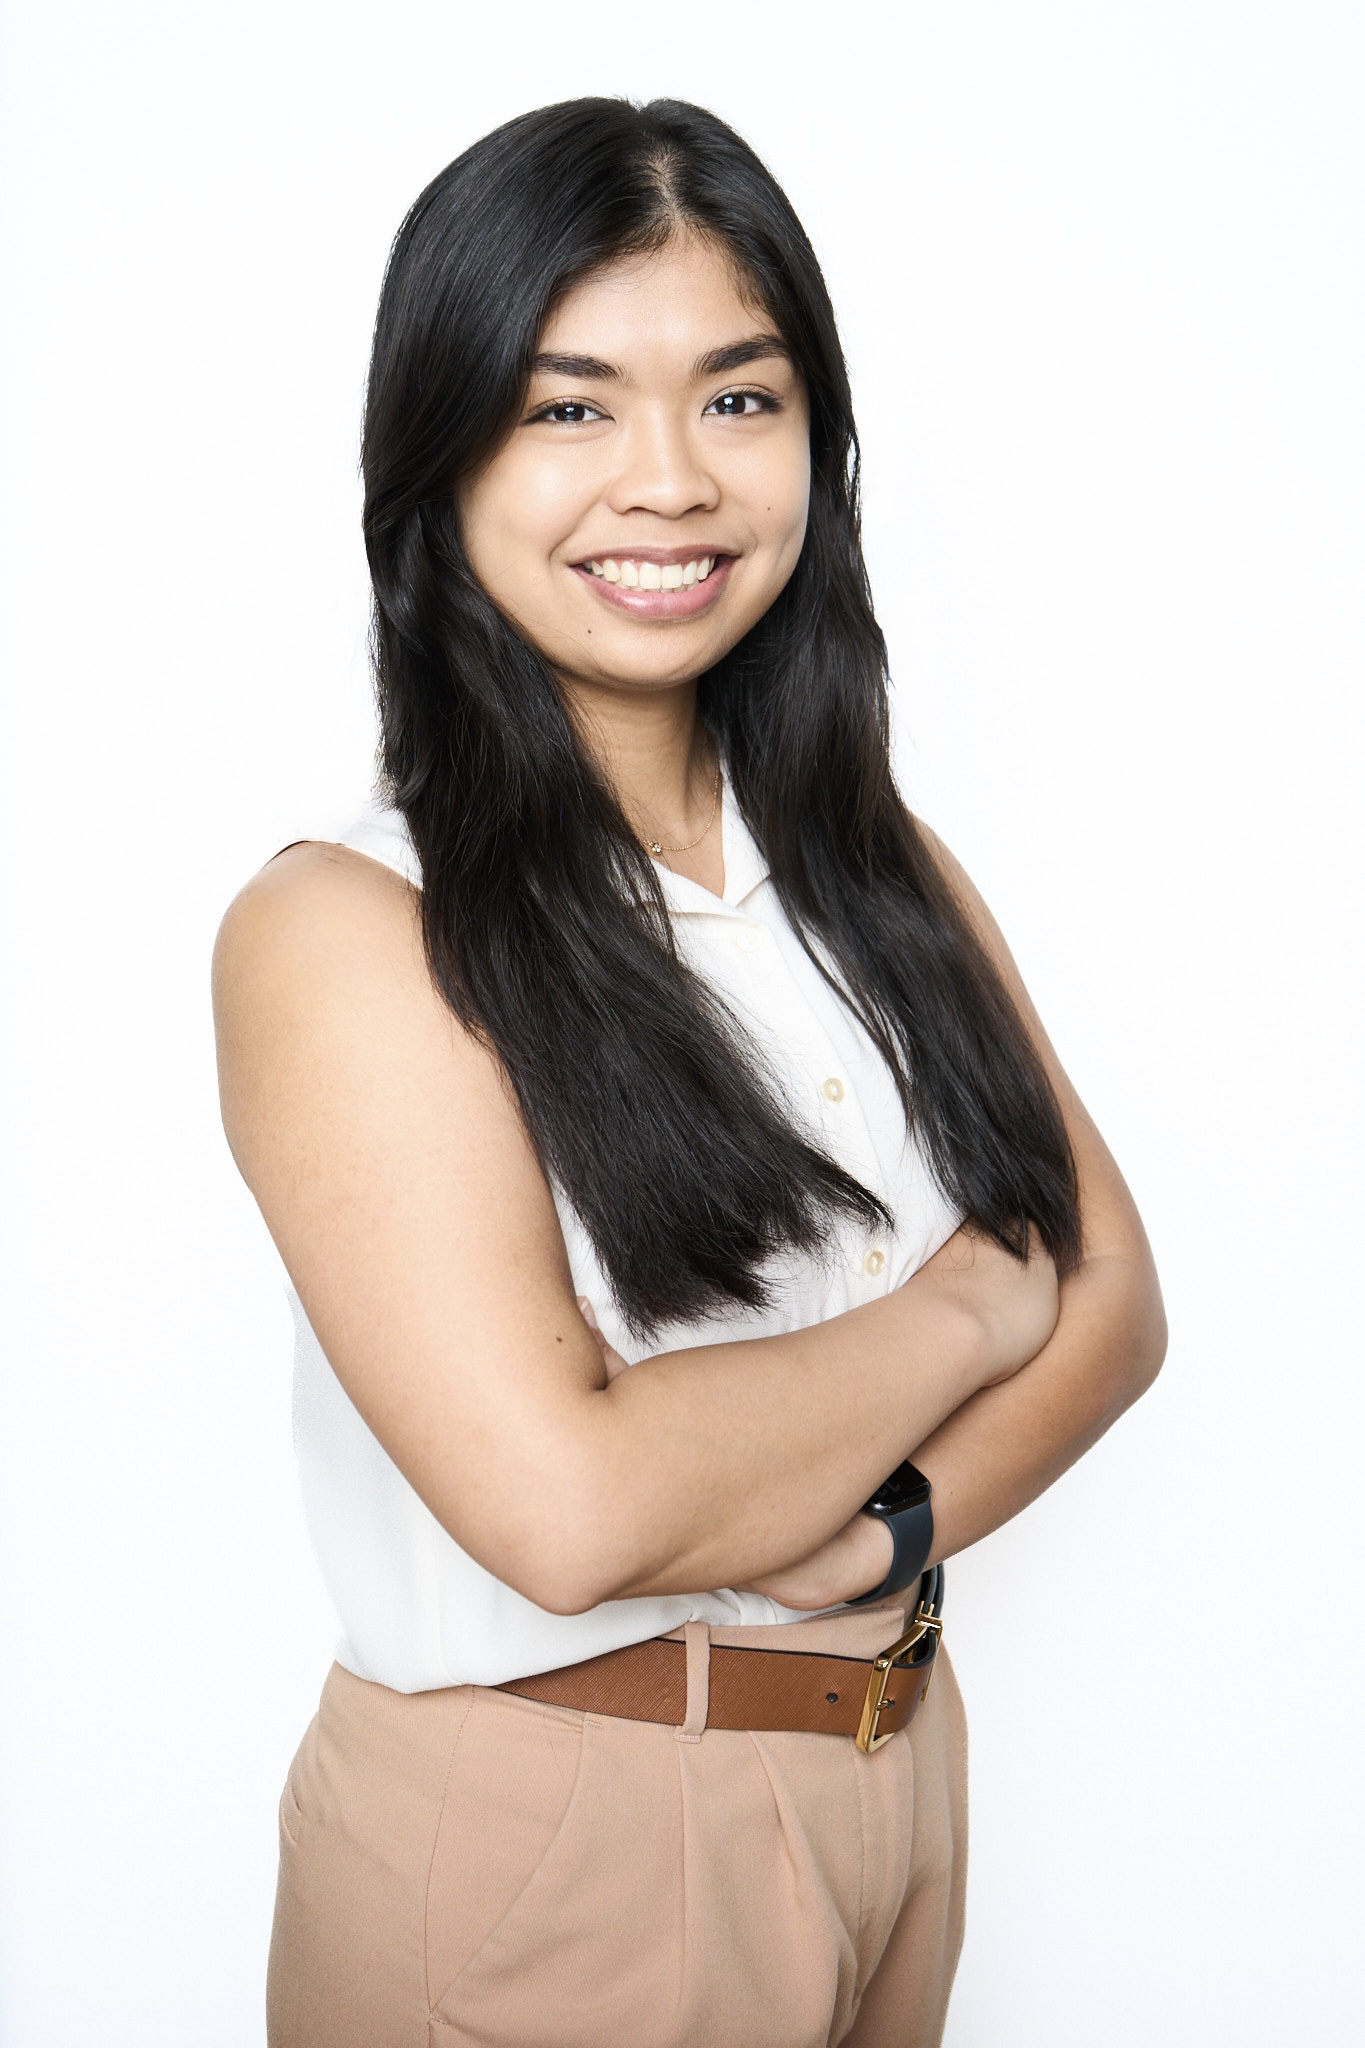
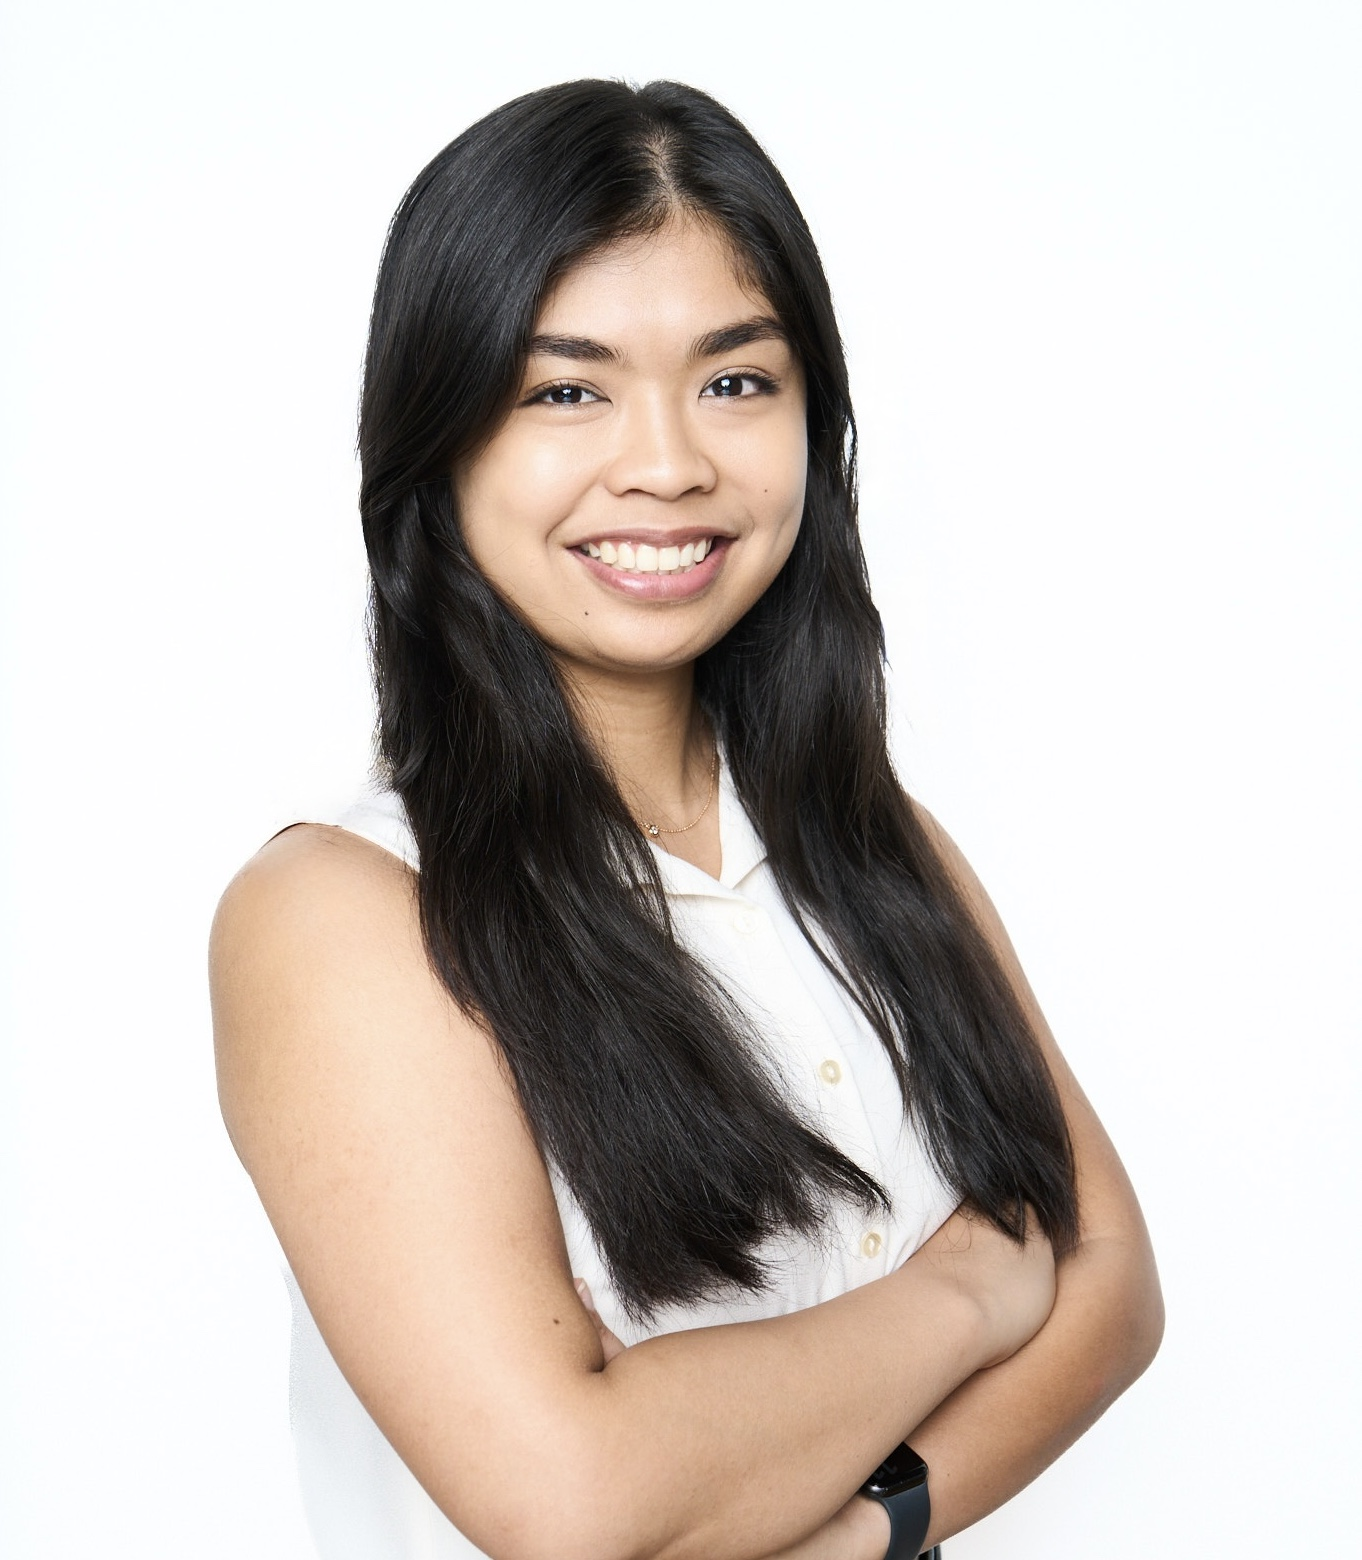
Styled header + added education info

diff --git a/index.html b/index.html
@@ -17,12 +17,16 @@
     <!-- // Intro -->
     <header>
         <img src="images/meryl_headshot.JPG" alt="Meryl Marasigan">
-        <h1>Meryl Marasigan</h1>
-        <h2>Software Developer</h2>
-        <p>
-            Motivated and detail-oriented Software Engineer with a strong background in software development, software testing, and test automation. Skilled at ensuring high-quality software delivery through effective test planning, execution, and defect tracking. Experienced in Agile/Scrum environments and passionate about enhancing software quality through continuous improvement. Eager to contribute to excellence in software quality.
+        <div class="intro">
+            <h1>Meryl Marasigan</h1>
+            <h2>Software Developer & Tester</h2>
+            <p>
+                Motivated and detail-oriented Software Engineer with a strong background in software development, software testing, and test automation. Skilled at ensuring high-quality software delivery through effective test planning, execution, and defect tracking. Experienced in Agile/Scrum environments and passionate about enhancing software quality through continuous improvement. Eager to contribute to excellence in software quality.
 
-        </p>
+            </p>
+
+        </div>
+        
 
     </header>
     
@@ -88,13 +92,28 @@
             <!-- School details: copy this whole block to add more schools. -->
             <h3>California State University, Northridge - 2025-2027 </h3>
             <p>M.S. Software Engineering</p>
+
             
             <!-- Add as many paragraphs as you need. -->
-            <p>Summary.</p>
+            <p>
+                Pursuing a Master's degree in Software Engineering with a focus on agile methodologies and software architecture.
+            </p>
+            <p>
+                <ul>
+                    <li> GPA: 3.9</li>
+                    <li> Relevant Coursework: Software Architecture, Agile Methodologies, Software Testing and Quality Assurance, Cloud Computing, DevOps Practices</li>
+                </ul>
+            </p>
             <!-- End of school details. -->
 
             <h3>University of California, Irvine - 2018-2022</h3>
             <p>B.S. Computer Science</p>
+            <p>
+                <ul>
+                    <li> GPA: 3.65</li>
+                    <li> Relevant Coursework: Data Structures and Algorithms, Software Engineering, Database Systems, Web Development, Mobile App Development</li>
+                </ul>
+            </p>
         </section>
     </main>
     
@@ -106,7 +125,7 @@
         <div>
             <a href="mailto:merylmarasigan@gmail.com">merylmarasigan@gmail.com</a>
             <a href="https://www.linkedin.com/in/meryl-marasigan/" target="_blank">LinkedIn</a>
-            <a href="https://github.com/merylmarasigan741">GitHub</a>
+            <a href="https://github.com/merylmarasigan741" target="_blank">GitHub</a>
         </div>
 
         <p>Copyright 2026 by Meryl Marasigan</p>

diff --git a/css/styles.css b/css/styles.css
@@ -68,3 +68,25 @@ h2,h3{
     /*font weight*/
     font-weight: 600;
 }
+
+img{
+    height: 250px;
+    border-radius: 50%;
+    margin-right: 50px;
+}
+
+header{
+    display: flex;
+    justify-content: center;
+    align-items: center;
+}
+
+
+header, section{
+    padding: 20px;
+    margin-bottom: 20px;
+}
+
+footer{
+    padding: 20px;
+}
